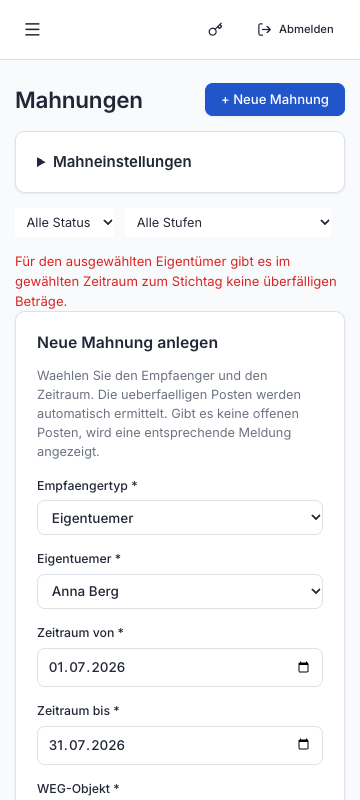
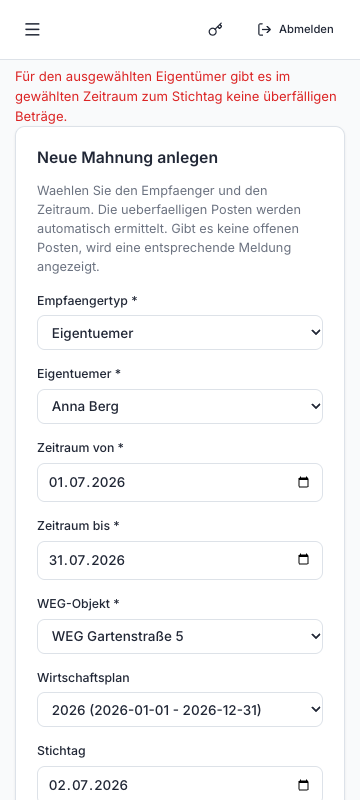
fix(dunning): bring owner refusal into view
Owner submissions could leave the German refusal above the scroll area. Reuse the creation alert for owner drafts and keep it clear of the scroll boundary.

Verify full viewport visibility, preserved selections and the date-only retry in Chromium, and cover the owner alert in the scoped component test.

Refs #354

diff --git a/frontend/src/pages/DunningNoticesPage.tsx b/frontend/src/pages/DunningNoticesPage.tsx
@@ -125,8 +125,8 @@ export function DunningNoticesPage() {
   const [scopeValid, setScopeValid] = useState(false);
   const [saving, setSaving] = useState(false);
   const savingRef = useRef(false);
-  const tenantErrorRef = useRef<HTMLParagraphElement>(null);
-  const tenantFormOpen = showForm && canWrite && recipientType === "tenant";
+  const creationErrorRef = useRef<HTMLParagraphElement>(null);
+  const creationFormOpen = showForm && canWrite;
   const mounted = useRef(false);
   useEffect(() => {
     mounted.current = true;
@@ -134,7 +134,7 @@ export function DunningNoticesPage() {
   }, []);
 
   useEffect(() => {
-    if (error) tenantErrorRef.current?.scrollIntoView?.({ block: "nearest" });
+    if (error) creationErrorRef.current?.scrollIntoView?.({ block: "nearest" });
   }, [error]);
 
   const statusFilter = searchParams.get("status") ?? "";
@@ -363,15 +363,15 @@ export function DunningNoticesPage() {
 
       {error && (
         <p
-          ref={tenantFormOpen ? tenantErrorRef : undefined}
-          role={tenantFormOpen ? "alert" : undefined}
-          className="error-text"
+          ref={creationFormOpen ? creationErrorRef : undefined}
+          role={creationFormOpen ? "alert" : undefined}
+          className={creationFormOpen && recipientType === "owner" ? "error-text scroll-mt-2" : "error-text"}
         >
           {error}
         </p>
       )}
 
-      {showForm && canWrite && (
+      {creationFormOpen && (
         <div className="card" style={{ marginBottom: "1rem" }}>
           <h2>Neue Mahnung anlegen</h2>
           <p style={{ fontSize: "0.85rem", color: "var(--text-muted)", marginBottom: "1rem" }}>

diff --git a/frontend/src/pages/ScopedDunning.test.tsx b/frontend/src/pages/ScopedDunning.test.tsx
@@ -52,7 +52,7 @@ it("preserves and displays the open-items scope, retains it after an error, and 
   expect(screen.getByRole("combobox", { name: "Abrechnungskreis" })).toHaveValue("");
 });
 
-it("passes the explicit owner plan and WEG preparation scope", async () => {
+it("passes the owner plan and WEG scope and announces a refused submission", async () => {
   vi.mocked(endpoints.createDunningForOwner).mockRejectedValue(new ApiError(422, "Plan not finalized"));
   render(<MemoryRouter><DunningNoticesPage /></MemoryRouter>);
   await screen.findByText("Keine Mahnungen vorhanden.");
@@ -63,7 +63,8 @@ it("passes the explicit owner plan and WEG preparation scope", async () => {
   await screen.findByRole("option", { name: /Mietkreis · WEG/ });
   fireEvent.change(screen.getByRole("combobox", { name: "Abrechnungskreis" }), { target: { value: "scope" } });
   fireEvent.click(screen.getByRole("button", { name: "Mahnung erstellen" }));
-  await screen.findByText("Plan not finalized");
+  expect(await screen.findByRole("alert")).toHaveTextContent("Plan not finalized");
+  expect(screen.getByRole("combobox", { name: "Abrechnungskreis" })).toHaveValue("scope");
   expect(endpoints.createDunningForOwner).toHaveBeenCalledWith(expect.objectContaining({ accounting_scope_id: "scope", economic_plan_id: "plan", owner_profile_id: "owner" }));
 });
 

diff --git a/backend/tests/bdd/test_dunning_notice_journey.py b/backend/tests/bdd/test_dunning_notice_journey.py
@@ -98,23 +98,23 @@ def submit_early_owner_notice(browser_world, july_plan, width):
                 await field(b.page, label).fill(value)
         await b.page.get_by_label('Abrechnungskreis suchen', exact=True).fill('WEG Gartenstraße')
         await b.select('Abrechnungskreis', w['scope'])
+        await button(b.page, 'Mahnung erstellen').scroll_into_view_if_needed()
         return await submit(b, 'Mahnung erstellen', '/api/dunning/owner', status=422)
 
     w['refusal'] = b.run(submit_early())
 
 
-@then('the form explains the refusal in German, keeps the selections and creates no draft')
+@then('the German refusal is fully in view without manual scrolling, the selections remain and no draft is created')
 def early_owner_notice_is_refused(browser_world, world, july_plan):
     b, w = browser_world, july_plan
 
+    detail = 'Für den ausgewählten Eigentümer gibt es im gewählten Zeitraum zum Stichtag keine überfälligen Beträge.'
+    assert w['refusal'] == {'detail': detail}
+
     async def check_form():
-        message = b.page.get_by_text(
-            'Für den ausgewählten Eigentümer gibt es im gewählten Zeitraum zum Stichtag keine überfälligen Beträge.',
-            exact=True,
-        )
-        await expect(message).to_be_visible()
-        await message.scroll_into_view_if_needed()
-        await expect(message).to_be_in_viewport(ratio=1)
+        await expect(b.page.get_by_text(detail, exact=True)).to_be_in_viewport(ratio=1)
+        await expect(b.page.get_by_role('combobox', name='Empfaengertyp *', exact=True)).to_have_value('owner')
+        await expect(b.page.get_by_role('combobox', name='Abrechnungskreis', exact=True)).to_have_value(w['scope'])
         for label, value in w['selections'].items():
             control = (b.page.get_by_role('combobox', name=label, exact=True)
                        if label in {'Eigentuemer *', 'WEG-Objekt *', 'Wirtschaftsplan'} else field(b.page, label))

diff --git a/DESIGN.md b/DESIGN.md
@@ -661,20 +661,21 @@ and no draft is created.
 | Before | [View](docs/assets/design/dunning-scope-refusal/before-1280.png) | [View](docs/assets/design/dunning-scope-refusal/before-360.png) |
 | After | [View](docs/assets/design/dunning-scope-refusal/after-1280.png) | [View](docs/assets/design/dunning-scope-refusal/after-360.png) |
 
-A failed tenant submission announces its existing error and brings it into
+A failed tenant or owner submission announces its existing error and brings it into
 view if it is offscreen. The error stays above the creation card; it is fully
 readable immediately after submission at 360 px and 1280 px.
 
-| Refusal immediately after submitting | 1280 px | 360 px |
+| Tenant refusal immediately after submitting | 1280 px | 360 px |
 |---|---|---|
 | Before | [View](docs/assets/design/dunning-refusal-viewport/before-1280.png) | [View](docs/assets/design/dunning-refusal-viewport/before-360.png) |
 | After | [View](docs/assets/design/dunning-refusal-viewport/after-1280.png) | [View](docs/assets/design/dunning-refusal-viewport/after-360.png) |
 
 If no owner charge is overdue, the inline error says „Für den ausgewählten
 Eigentümer gibt es im gewählten Zeitraum zum Stichtag keine überfälligen
-Beträge.“ The form keeps the selections for retry.
+Beträge.“ The form keeps the selections for retry and brings the full message
+into view without manual scrolling.
 
-| Owner notice before the charge is overdue | 1280 px | 360 px |
+| Owner refusal immediately after submitting | 1280 px | 360 px |
 |---|---|---|
 | Before | [View](docs/assets/design/owner-dunning-no-overdue/before-1280.png) | [View](docs/assets/design/owner-dunning-no-overdue/before-360.png) |
 | After | [View](docs/assets/design/owner-dunning-no-overdue/after-1280.png) | [View](docs/assets/design/owner-dunning-no-overdue/after-360.png) |

diff --git a/docs/operations/bank-and-payments.md b/docs/operations/bank-and-payments.md
@@ -201,8 +201,9 @@ view and keeps the entered values. If an accounting scope is required, select
 it and submit the same form again. The refused submission creates no draft.
 
 If an owner has no overdue charges for the selected period and reference date,
-**Mahnungen** explains this in German and creates no draft. The owner, plan,
-period and reference date remain selected. Adjust **Stichtag** and submit again
+**Mahnungen** brings the German explanation into view without manual scrolling
+and creates no draft. The owner, property, plan, accounting scope, period and
+reference date remain selected. Adjust **Stichtag** and submit again
 when the charge is overdue.
 
 Under **Mahnungen → Mahneinstellungen**, an administrator can set the fees for all three
